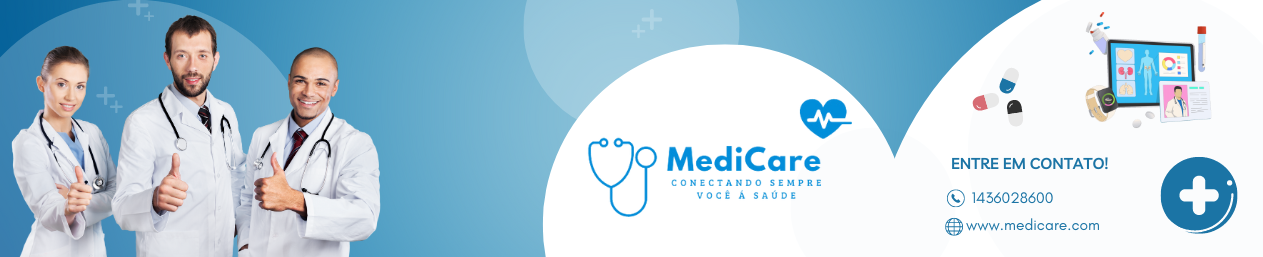
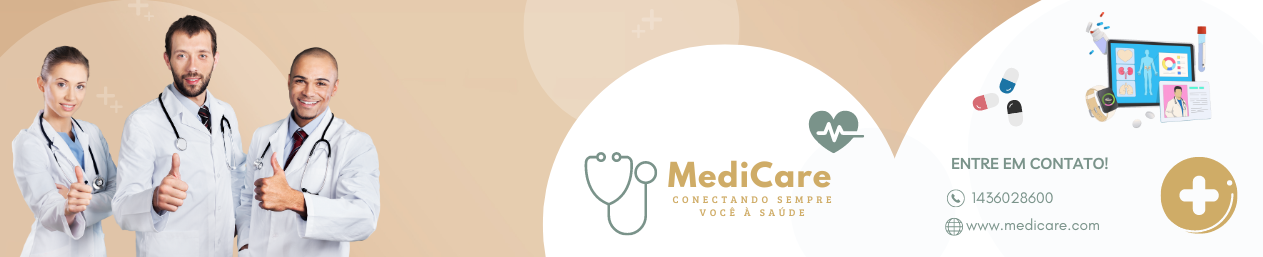
alterando paleta de cores e imagens

diff --git a/css/syle.css b/css/syle.css
@@ -2,7 +2,8 @@ body {
   margin: 0;
   padding: 0;
   box-sizing: border-box;
-  font-family: Verdana, Geneva, Tahoma, sans-serif;
+  font-family: system-ui, -apple-system, BlinkMacSystemFont, "Segoe UI", Roboto,
+    Oxygen, Ubuntu, Cantarell, "Open Sans", "Helvetica Neue", sans-serif;
 }
 
 .fullcontainer {
@@ -19,8 +20,8 @@ body {
 }
 
 header {
-  color: #008dda;
-  background: #f7eedd;
+  color: #7a938a;
+  background: #ffffff;
   display: flex;
   justify-content: space-around;
   height: 120px;
@@ -60,11 +61,11 @@ header {
 
 #menu-principal li a {
   font-size: 14px;
-  color: #008dda;
+  color: #7a938a;
   text-decoration: none;
 }
 #menu-principal li a:hover {
-  color: #41c9e2;
+  color: #364841;
 }
 
 .container {
@@ -77,8 +78,8 @@ header {
   display: flex;
   justify-content: center;
   align-items: center;
-  color: #008dda;
-  border: #008dda solid 1px;
+  color: #7a938a;
+  border: #7a938a solid 1px;
   border-radius: 65px;
   padding: 0px 15px;
   font-size: 16px;
@@ -86,9 +87,9 @@ header {
 }
 
 .btnMenu:hover {
-  background: #41c9e2;
-  color: #f7eedd;
-  border: #41c9e2 solid 2px;
+  background: #7a938a;
+  color: #ffffff;
+  border: #7a938a solid 2px;
   border-radius: 65px;
   padding: 0px 15px;
   font-size: 16px;
@@ -106,12 +107,15 @@ header {
 #divAgendamento {
   text-align: center;
   font-size: 25px;
+  color: #7a938a;
+  font-family: system-ui, -apple-system, BlinkMacSystemFont, "Segoe UI", Roboto,
+    Oxygen, Ubuntu, Cantarell, "Open Sans", "Helvetica Neue", sans-serif;
 }
 
 #segundoMenu {
-  background: #008dda;
-  color: #f7eedd;
-  border: #008dda solid 2px;
+  background: #cfac67;
+  color: #ffffff;
+  border: #cfac67 solid 2px;
   border-radius: 65px;
   padding: 0px 15px;
   font-size: 16px;
@@ -121,9 +125,9 @@ header {
 }
 
 #segundoMenu:hover {
-  background: #41c9e2;
+  background: #ad9e82;
   color: #ffffff;
-  border: #41c9e2 solid 2px;
+  border: #ad9e82 solid 2px;
   border-radius: 65px;
   padding: 0px 15px;
   font-size: 16px;
@@ -135,7 +139,7 @@ header {
   font-size: 10px;
 }
 #image {
-  background: #ececec;
+  background: #7a938a;
   height: 400px;
   bottom: 100px;
 }
@@ -158,7 +162,7 @@ header {
 #divQuestions {
   text-align: center;
   font-size: 25px;
-  color: #008dda;
+  color: #cfac67;
 }
 
 #divPerguntas {
@@ -170,7 +174,7 @@ header {
 }
 #divPerguntas button {
   border-radius: 15px;
-  border-color: #008dda;
+  border-color: #7a938a;
   text-align: initial;
   width: 60%;
   background: rgba(255, 255, 255, 0.845);
@@ -190,7 +194,7 @@ header {
 }
 
 .sobre {
-  color: #008dda;
+  color: #cfac67;
   display: flex;
   width: 720px;
   margin: 0 auto;
@@ -203,9 +207,8 @@ header {
   margin: 0 auto;
   min-width: 80%;
 }
-#divQuemsomos img{
+#divQuemsomos img {
   margin-left: 25px;
- 
 }
 
 .forms {
@@ -225,7 +228,7 @@ header {
 }
 
 .forms h2 {
-  color: #008dda;
+  color: #7a938a;
   font-size: 28px;
   line-height: 80px;
   margin: 0;
@@ -262,8 +265,8 @@ header {
 }
 
 .forms input[type="submit"] {
-  background: #008dda;
-  border-color: #008dda;
+  background: #7a938a;
+  border-color: #7a938a;
   width: 155px;
   border-radius: 50px;
   color: #fff;
@@ -274,24 +277,22 @@ header {
 .Zap {
   color: inherit;
   text-decoration: none;
-
 }
 
 footer {
-  background: #F7EEDD;
+  background: #cfac67;
   min-height: 400px;
   /* margin-top: -281px; */
-  color: #008dda;
+  color: #ffffff;
   display: flex;
-flex-direction: column;
-align-items: center;
-justify-content: center;
+  flex-direction: column;
+  align-items: center;
+  justify-content: center;
 }
 
-
-footer #dados{
-display: flex;
-width: 1070px;
+footer #dados {
+  display: flex;
+  width: 1070px;
 }
 
 footer .itens {
@@ -300,12 +301,12 @@ footer .itens {
 }
 
 footer .loc {
-  color: #008dda;
-  
+  color: #ffffff;
 }
 
 #copyright {
+  background: #cfac67;
+  padding: 10px;
   text-align: center;
   margin-top: 100px;
 }
-

diff --git a/index.html b/index.html
@@ -11,7 +11,7 @@
     <div>
       <header>
         <div id="divLogo">
-          <img src="img/logotipoMediCare.webp" alt="" />
+          <img src="img/LogoMediCare2.webp" alt="" />
         </div>
 
         <nav id="divMenu">
@@ -67,14 +67,14 @@
           </p>
         </div>
         <div id="image">
-          <img src="img/Aqui_voce_encontra.png" alt="" />
+          <img src="img/Aqui você encontra (2).png" alt="" />
           <br />
         </div>
       </div>
       <div id="imageService">
-        <img src="img/localização2.png" alt="" />
-        <img src="img/lista.png" alt="" />
-        <img src="img/valor.png" alt="" />
+        <img src="img/1.png" alt="" />
+        <img src="img/2.png" alt="" />
+        <img src="img/3.png" alt="" />
       </div>
       <div id="divQuestions">
         <p><strong>Possíveis questionamentos:</strong></p>
@@ -131,7 +131,7 @@
             encontrar o médico e a clínica adequada para atender as necessidades
             de cada paciente.
           </p>
-          <img src="img/fundadores2.webp" alt="" />
+          <img src="img/Design_sem_nome_4.webp" alt="" />
         </div>
       </div>
       <div id ="divForms" class="forms">
